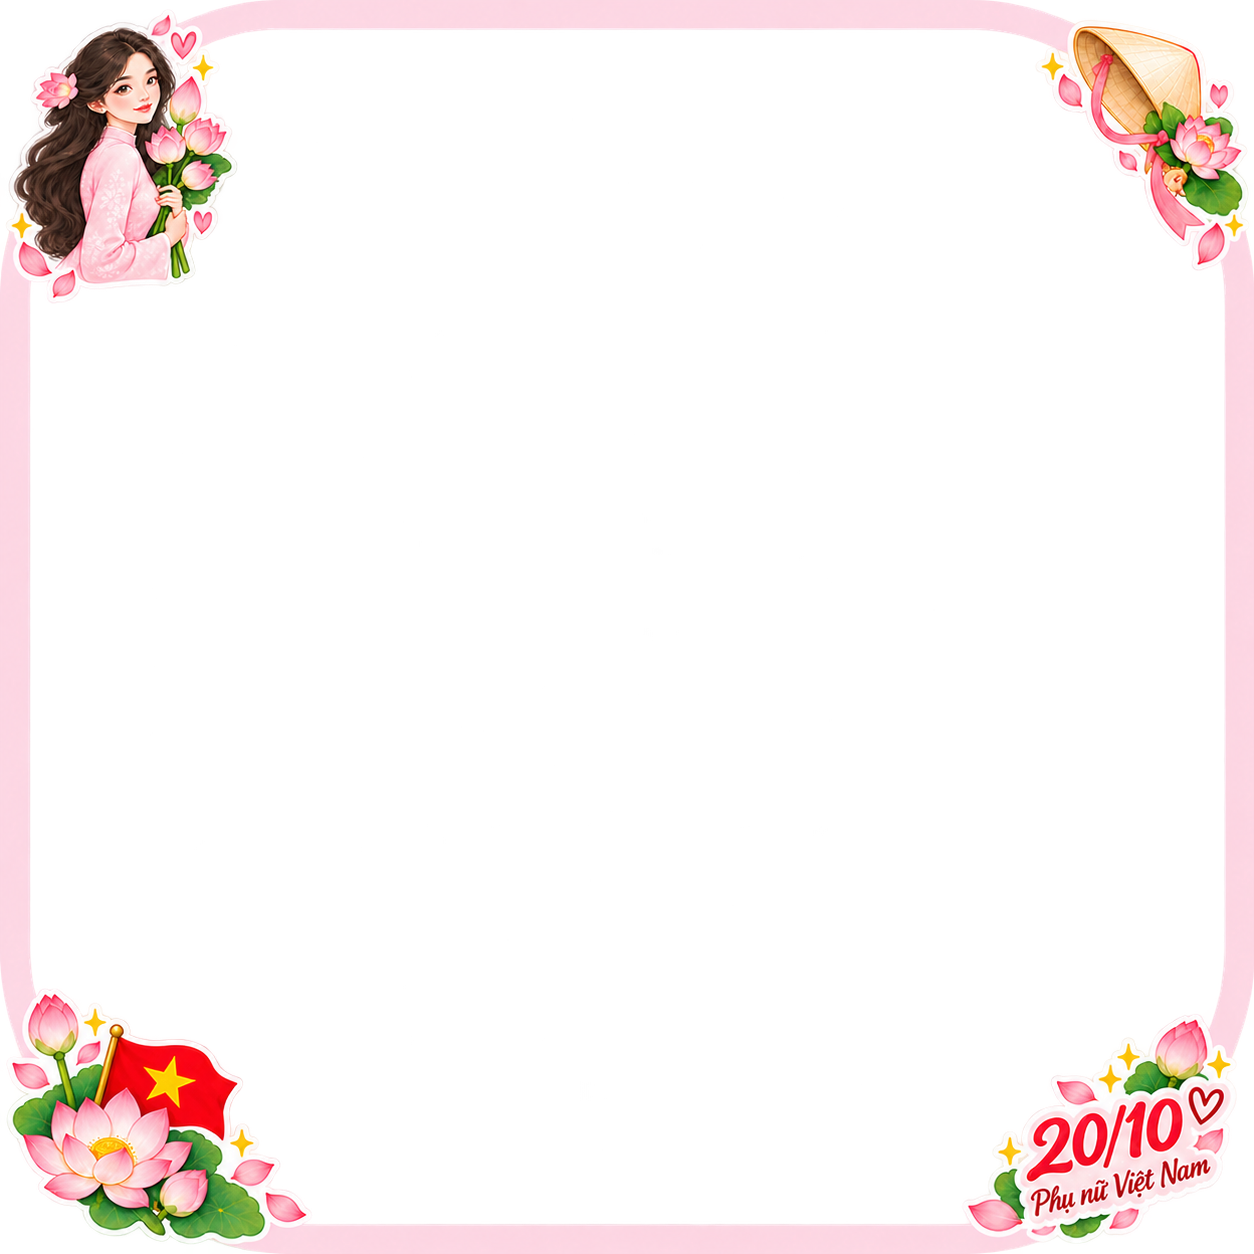
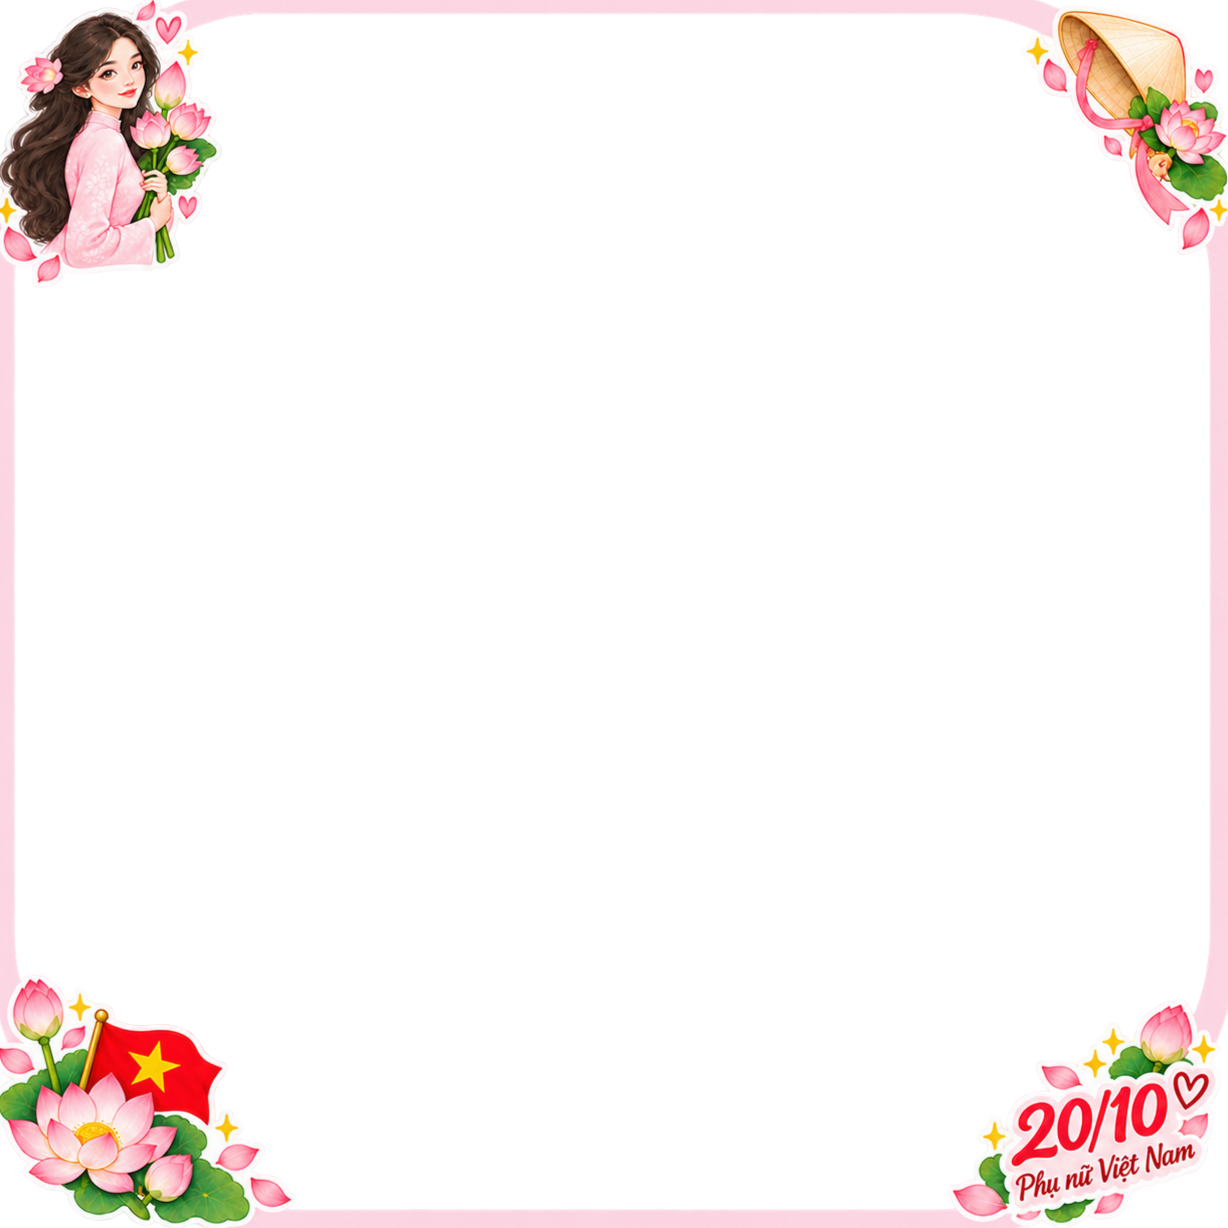
fix frame

Changed region(s): [[0.0, 0.0, 1.0, 1.0]]

diff --git a/getgif.py b/getgif.py
@@ -54,7 +54,7 @@ def get_gifs_from_repo(repo_url, token=None):
 
 def main():
     # URL mặc định
-    repo_url = "https://github.com/bquang2k6/gif/tree/master/icon/filter_icons"
+    repo_url = "https://github.com/bquang2k6/gif/tree/master/frame/custom"
     # repo_url = "https://github.com/bquang2k6/gif/icon"
     # Token để trống nếu repository công khai, hoặc thay bằng token của bạn nếu riêng tư
     token = None  # Thay bằng token nếu cần: "your_github_token_here"
